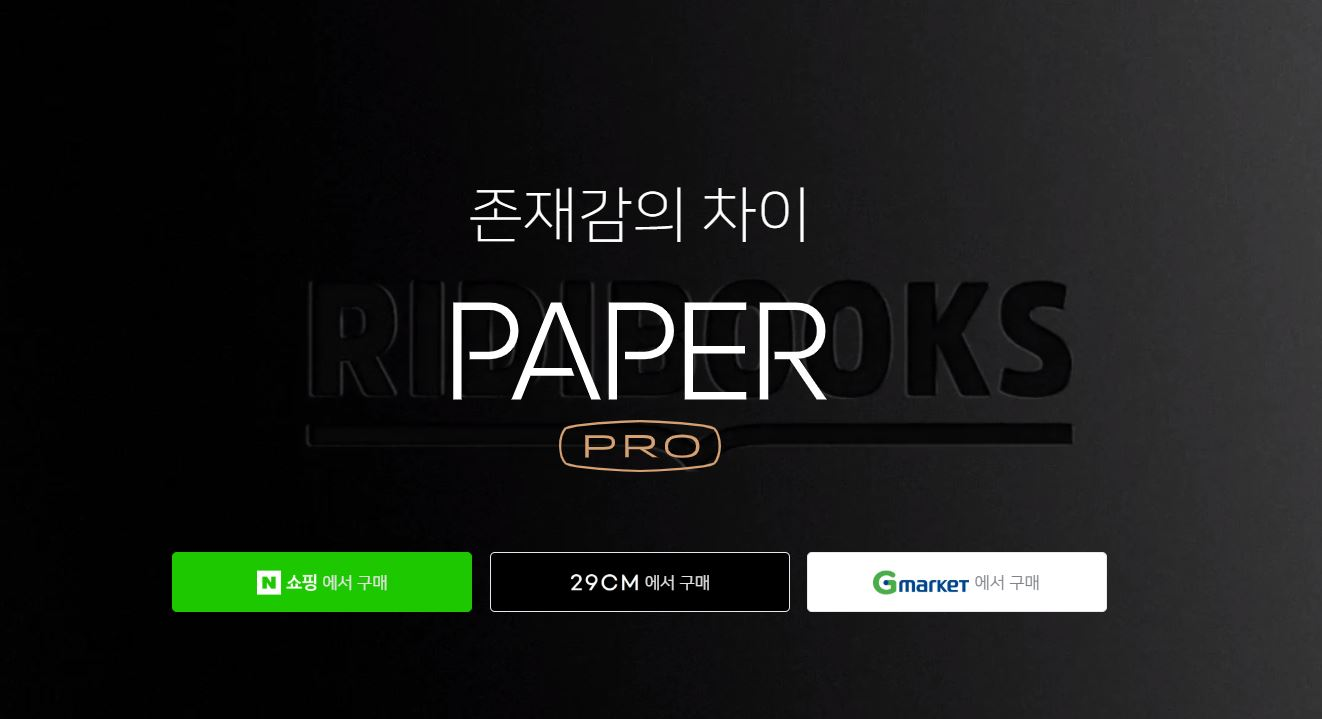
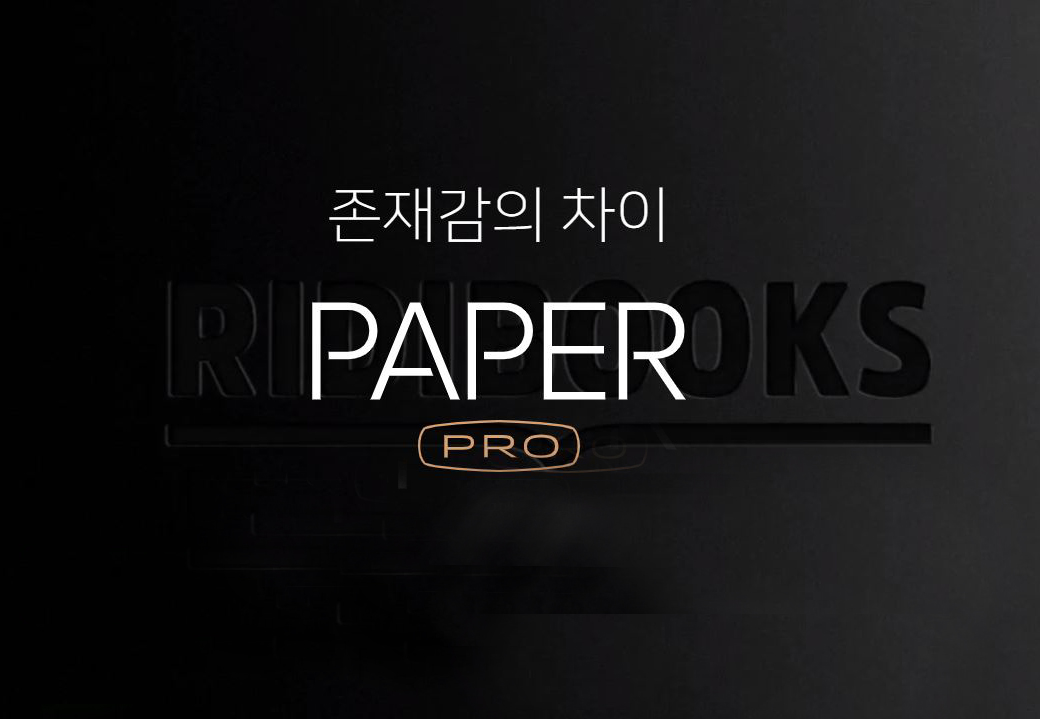
사진변경

diff --git a/css/index.css b/css/index.css
@@ -72,7 +72,7 @@ footer{ background: #f8f9fb;}
 .site > ul > li:nth-child(1) {background: url('../hyndai_global/images/m_mainVis_bg.jpg') 0 -530px no-repeat;}
 .site > ul > li:nth-child(2) {background: url('../aict/images/slider2.jpg') no-repeat -1570px -63px;}
 .site > ul > li:nth-child(3) {background: url('../navercorp/images/img_main_slide4.jpg');}
-.site > ul > li:nth-child(4) {background: url('../redi/images/존재감의\ 차이.JPG');}
+.site > ul > li:nth-child(4) {background: url('../redi/images/존재감의\ 차이.JPG'); background-size: cover;}
 .site > ul > li > a {width:285px; height:295px; display: block; border-radius: 150px;}
 .site > ul > li > a:hover {background: rgba(0, 0, 0, 0.2);}
 .site > ul > li > a > span {position: absolute; top:50%; left:50%; 
